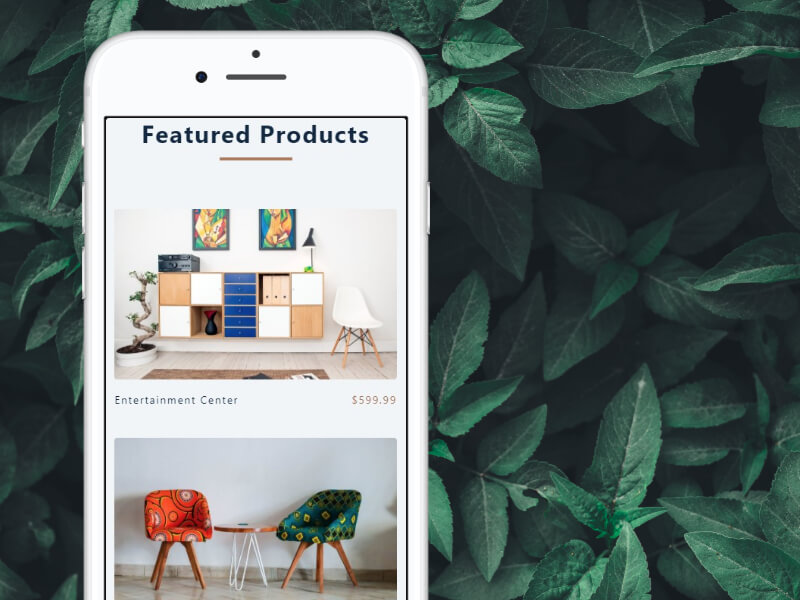
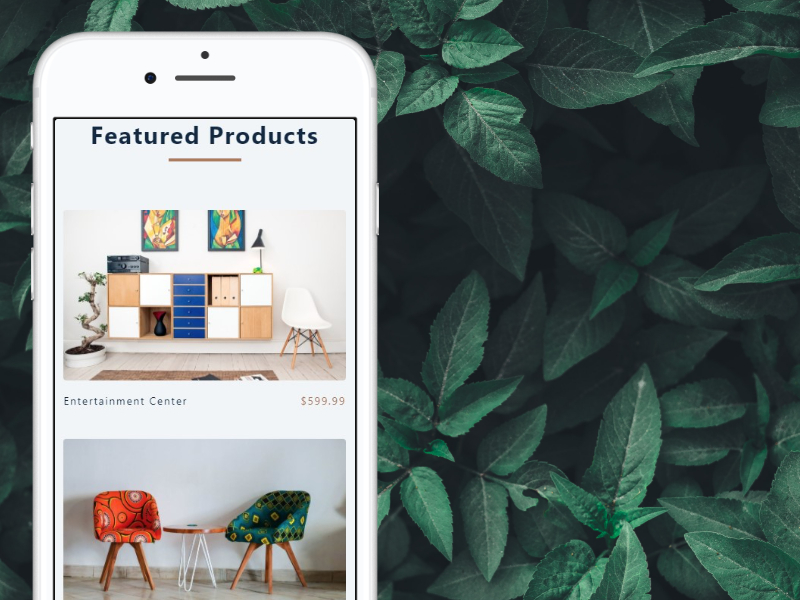
project-image fix

Changed region(s): [[0.0312, 0.03, 0.5625, 1.0], [0.1562, 0.09, 0.375, 0.15]]

diff --git a/styles/navbar.scss b/styles/navbar.scss
@@ -13,7 +13,7 @@
     color: $mainTextColor;
     font-size: $navText;
     background-color: $black;
-    box-shadow: 5px 5px 15px $shadowColor;
+    box-shadow: 0 5px 15px $shadowColor;
     transition: transform 0.3s ease-out;
     a {
         color: $mainTextColor;
@@ -30,7 +30,7 @@
         width: 60px;
         padding: 10px;
     }
-    
+
     .nav-links-container {
         display: flex;
         align-items: center;
@@ -114,7 +114,6 @@
     }
 }
 
-
 // Mobile
 
 .menu-bars {
@@ -149,7 +148,6 @@
 .change .bar3 {
     transform: rotate(45deg) translate(-8px, -8px);
 }
-
 
 // Dynamic Classes
 

diff --git a/styles/projects.scss b/styles/projects.scss
@@ -78,7 +78,7 @@
         }
     }
     .project-image {
-        width: 150%;
+        width: 170%;
         min-height: 100%;
         transition: transform ease-out 250ms;
     }
